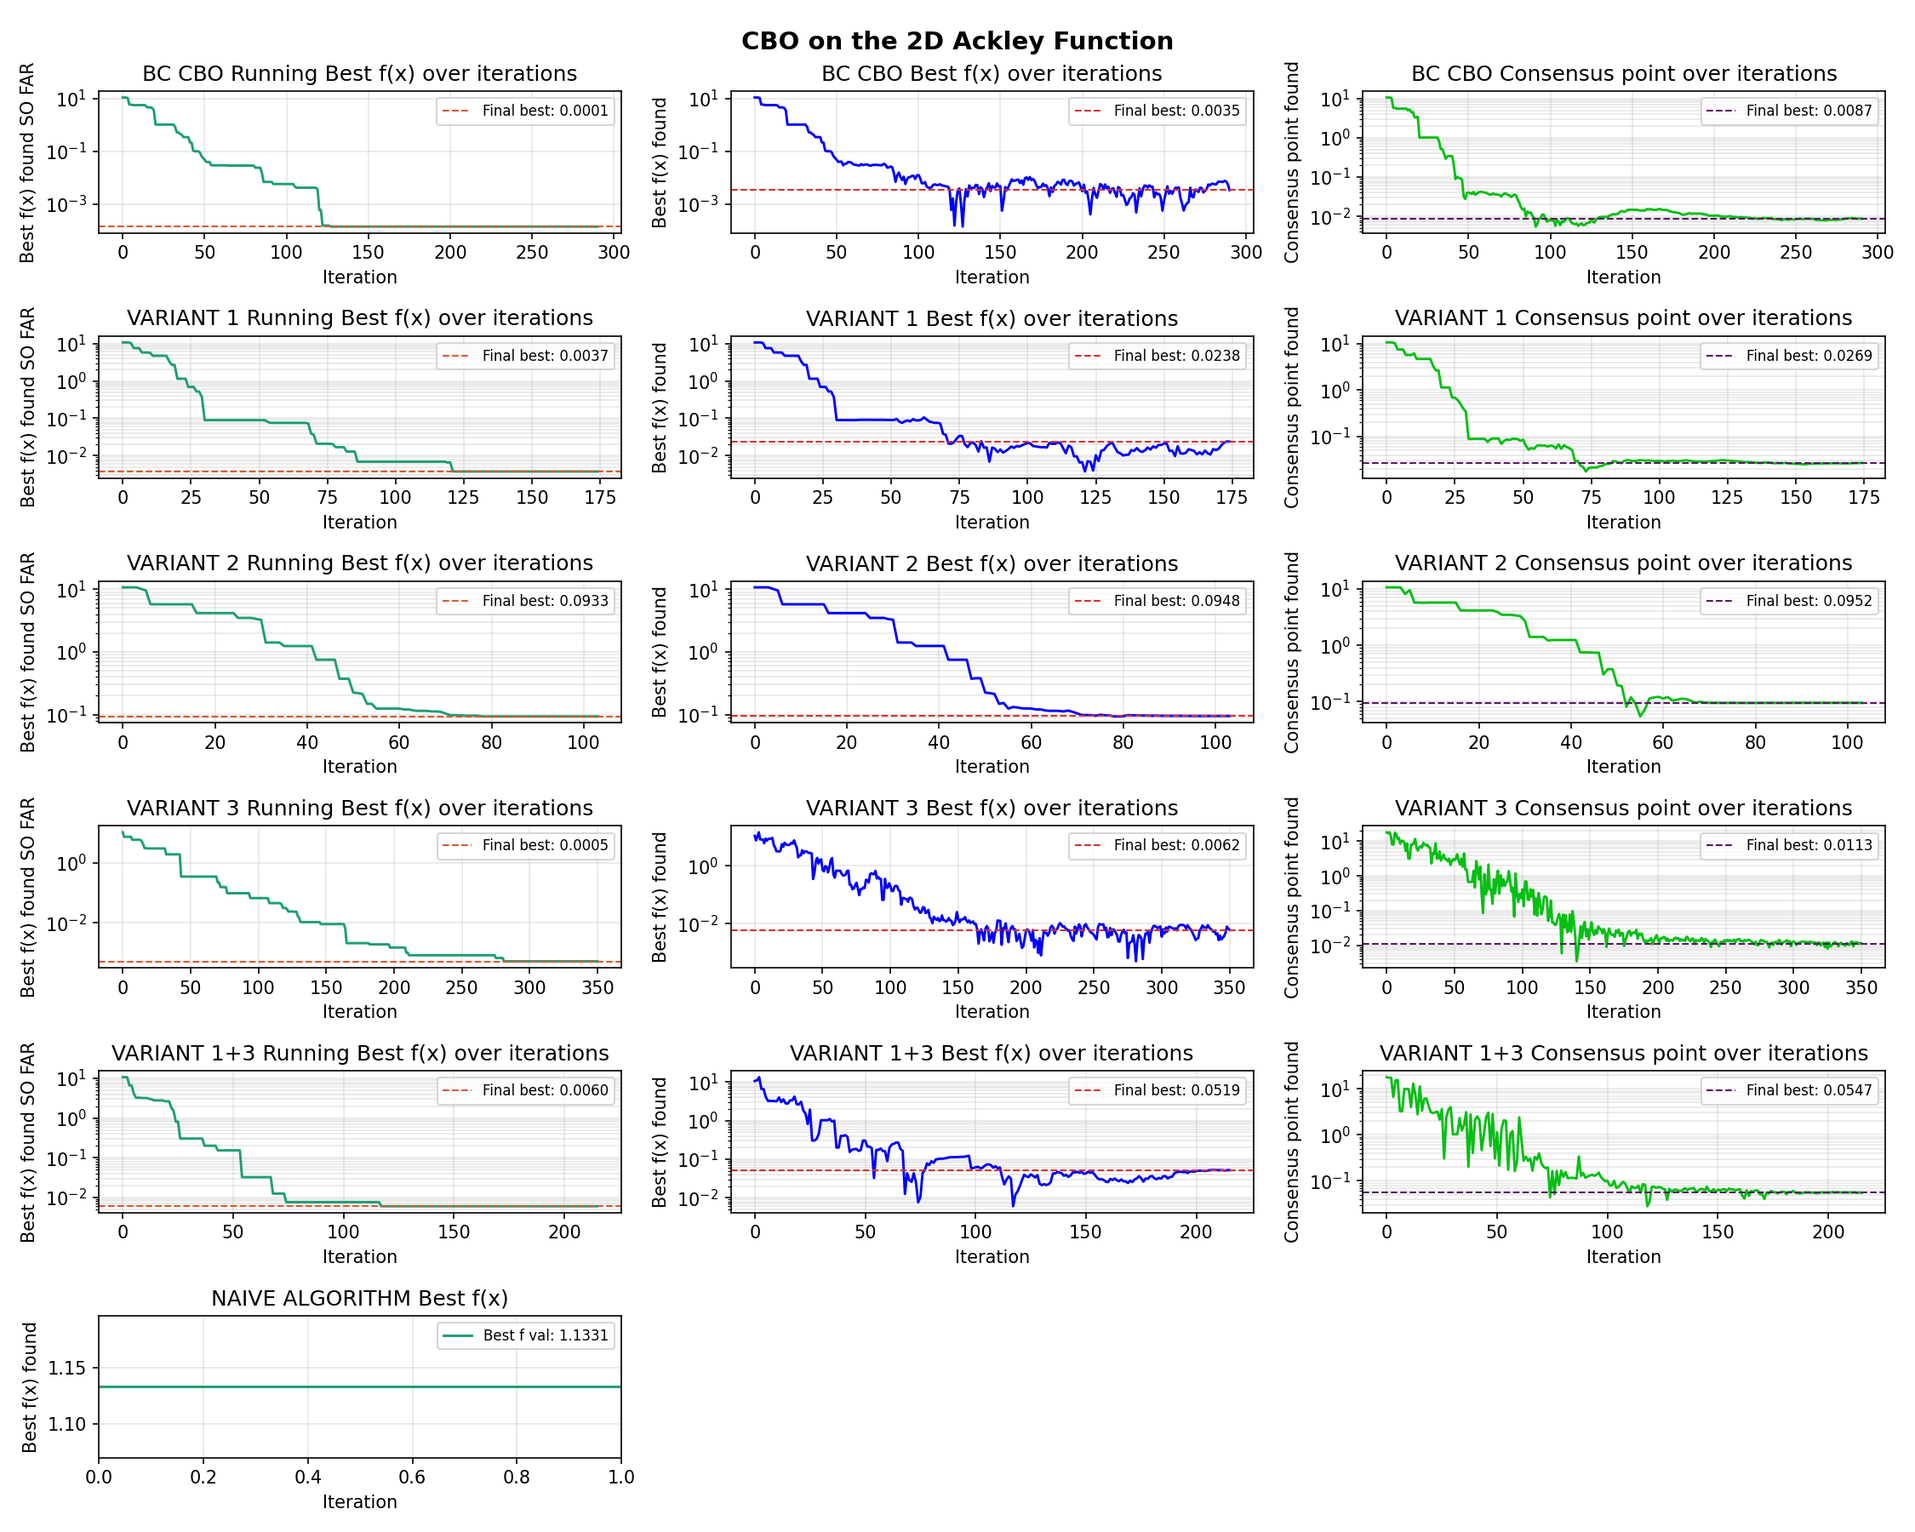
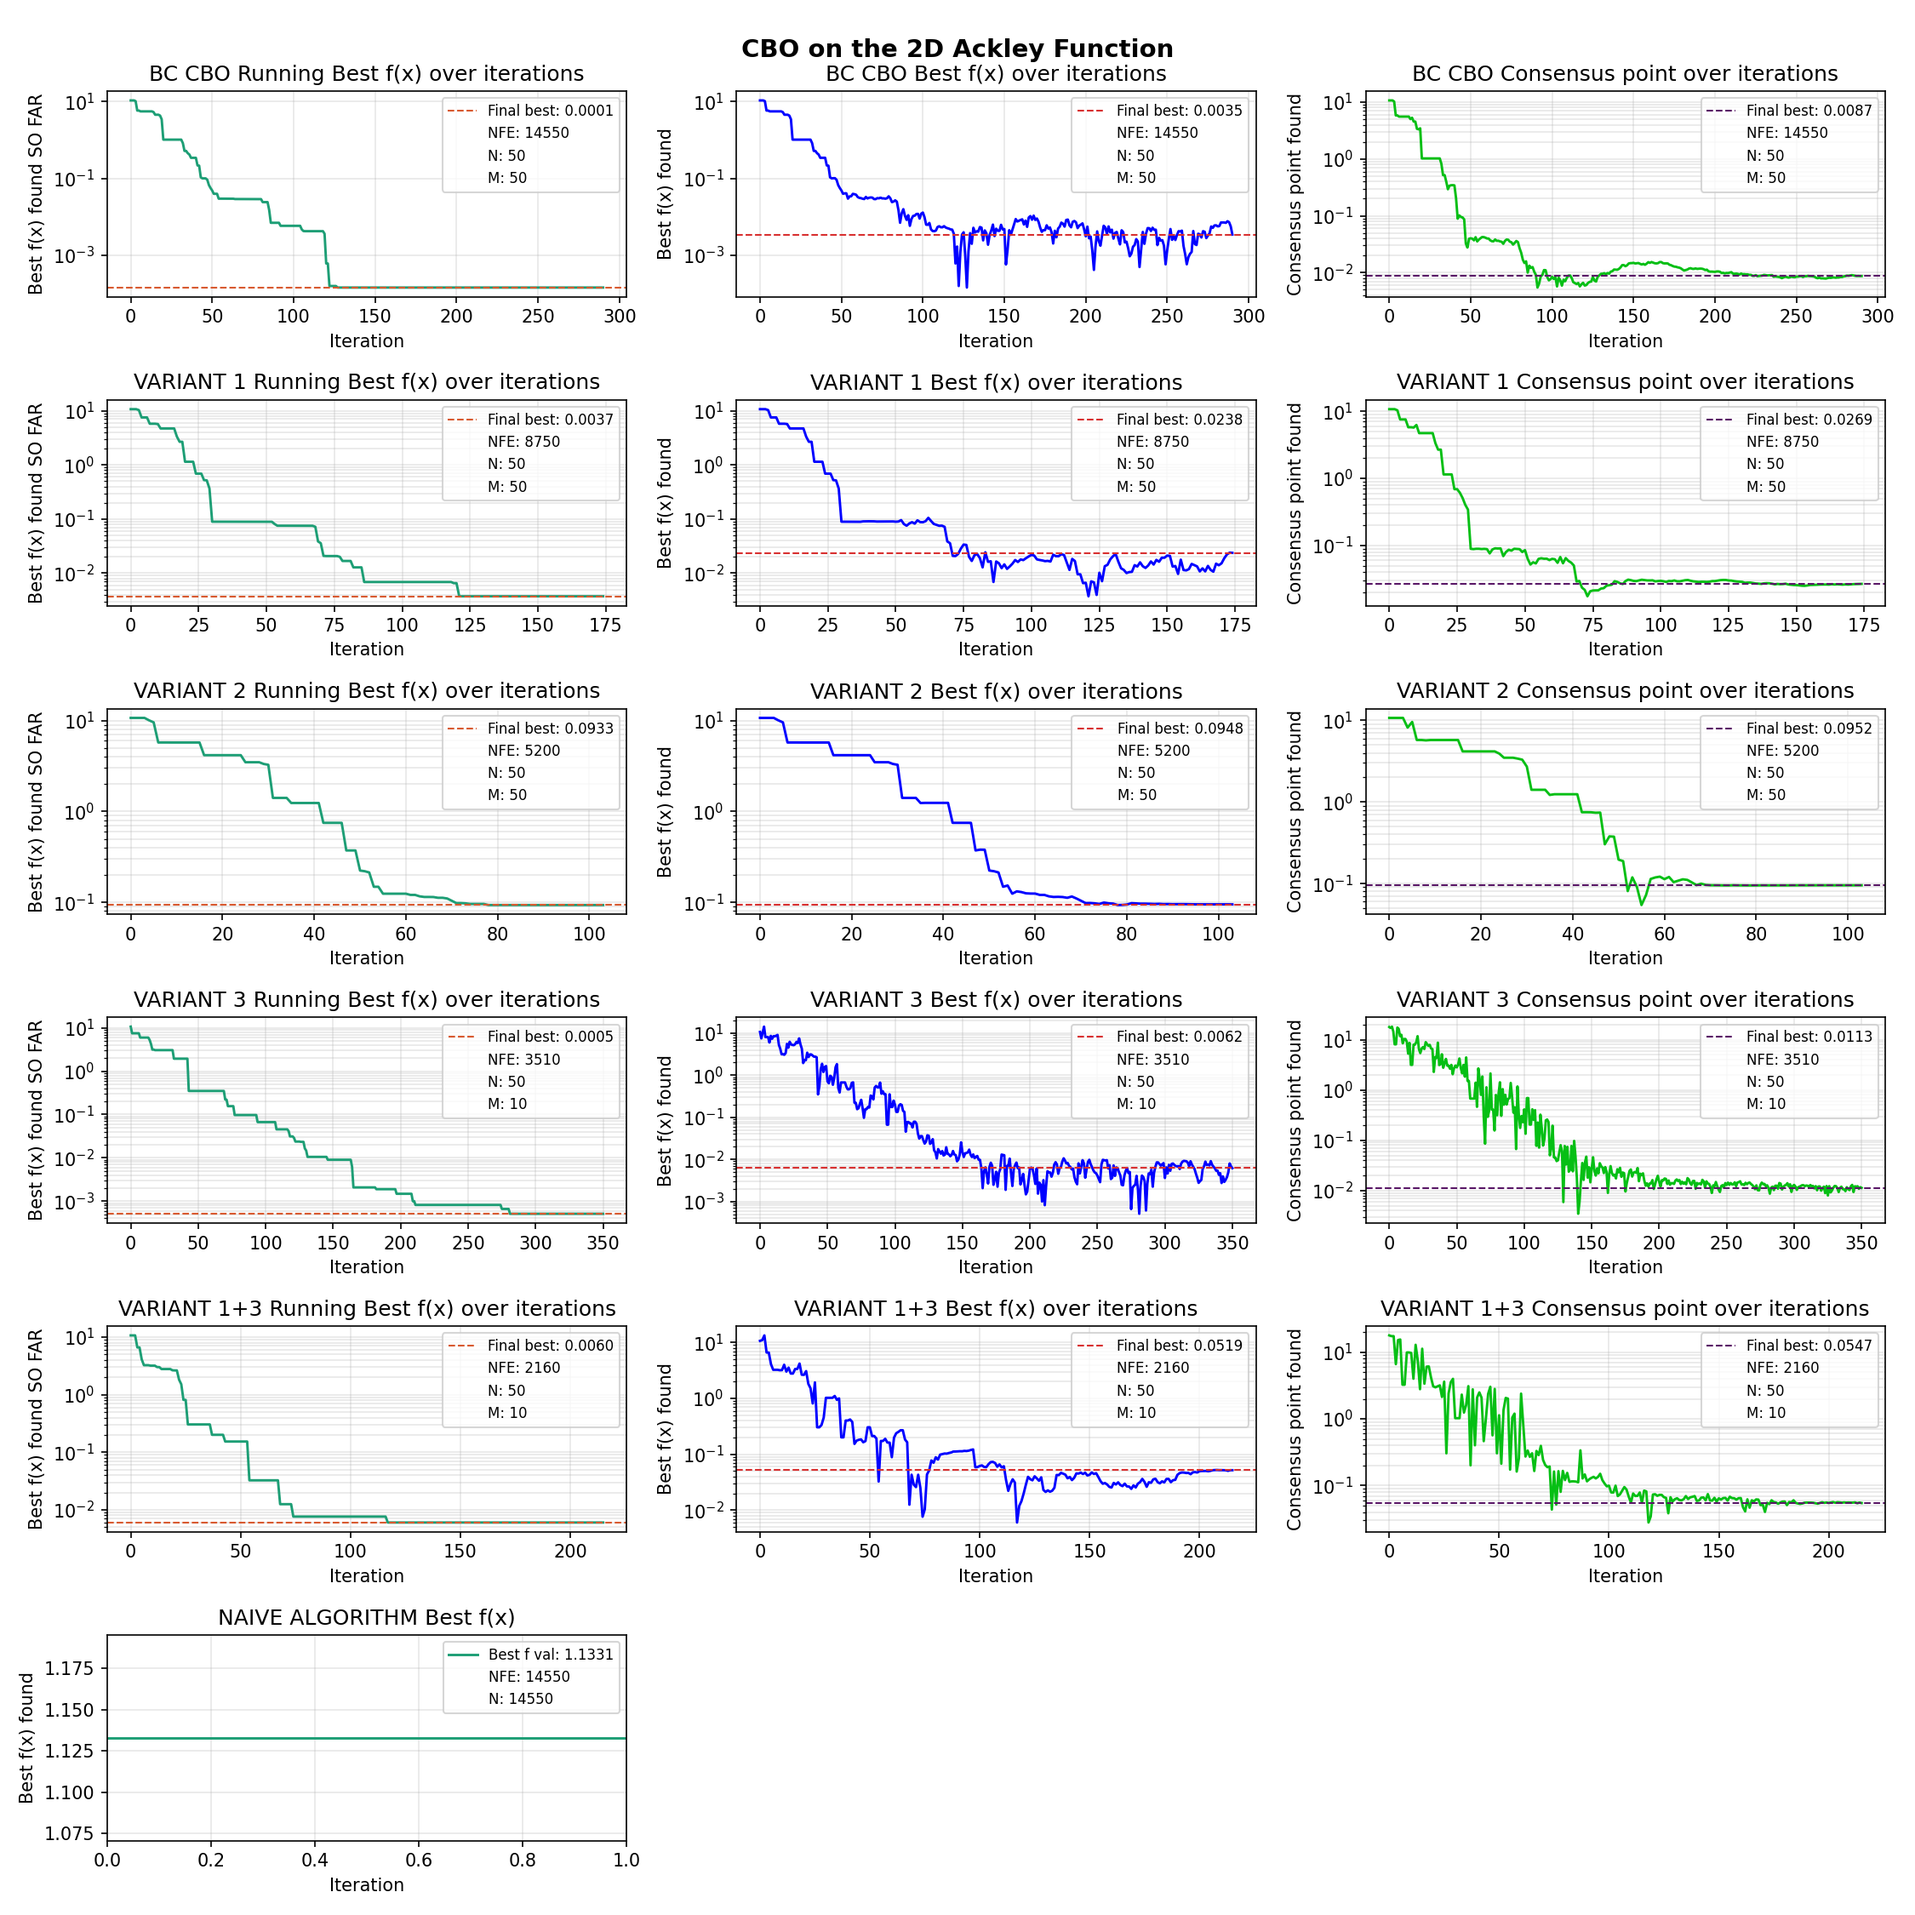
Algorithm comparison parameters

Changed region(s): [[0.0, 0.0, 0.9956, 0.9956], [0.4356, 0.2489, 0.4978, 0.28], [0.4667, 0.4044, 0.4978, 0.4356]]

diff --git a/obj_val_plot.py b/obj_val_plot.py
@@ -1,6 +1,7 @@
 import numpy as np
 import matplotlib.pyplot as plt
 import matplotlib.colors as mcolors
+import matplotlib.patches as mpatches
 
 from bc_algorithms import ackley, cbo, naive
 from variant_1 import component_wise_diff
@@ -10,7 +11,7 @@ from variant_1and3 import comp_diff_random_batch
 
 
 # best f(x) found SO FAR over iterations
-def best_obj_val_hist(ax, best_val_hist, best_val):
+def best_obj_val_hist(ax, best_val_hist, best_val, n_particles=50, m_size=50):
     # plot x (iteration) and y (obj value)
     ax.semilogy(best_val_hist, color="#1D9E75", linewidth=1.4)
     # draw horizontal y line to show where run ended up
@@ -18,22 +19,38 @@ def best_obj_val_hist(ax, best_val_hist, best_val):
 
     # ax.set_title("Best f(x) over iterations")
     ax.set_xlabel("Iteration"); ax.set_ylabel("Best f(x) found SO FAR")
-    ax.legend(fontsize=8)
+    # ax.legend(fontsize=8)
     ax.grid(alpha=0.3, which="both")
 
+    # get the existing plot handles automatically
+    handles, labels = ax.get_legend_handles_labels()
+
+    # add info patches to legend
+    info1 = mpatches.Patch(color='none', label=f'NFE: {m_size * len(best_val_hist)}')
+    info2 = mpatches.Patch(color='none', label=f'N: {n_particles}')
+    info3 = mpatches.Patch(color='none', label=f'M: {m_size}')
+    ax.legend(handles=handles + [info1, info2, info3], fontsize=8)
+
 # best f(x) during each iteration
-def obj_val_hist(ax, obj_val_hist):
+def obj_val_hist(ax, obj_val_hist, n_particles=50, m_size=50):
     # plot x (iteration) and y (obj value)
     ax.semilogy(obj_val_hist, color="blue", linewidth=1.4)
     # draw horizontal y line to show where run ended up
     ax.axhline(y=obj_val_hist[-1], color="#D83030", linestyle="--", linewidth=1, label=(f"Final best: {obj_val_hist[-1]:.4f}"))
 
     ax.set_xlabel("Iteration"); ax.set_ylabel("Best f(x) found")
-    ax.legend(fontsize=8)
+    # ax.legend(fontsize=8)
     ax.grid(alpha=0.3, which="both")
 
+    # add info patches to legend
+    handles, labels = ax.get_legend_handles_labels()
+    info1 = mpatches.Patch(color='none', label=f'NFE: {m_size*len(obj_val_hist)}')
+    info2 = mpatches.Patch(color='none', label=f'N: {n_particles}')
+    info3 = mpatches.Patch(color='none', label=f'M: {m_size}')
+    ax.legend(handles=handles + [info1, info2, info3], fontsize=8)
+
 # consensus point history over iterations
-def consensus_hist(ax, consensus_hist):
+def consensus_hist(ax, consensus_hist, n_particles=50, m_size=50):
     consensus_vals = ackley(consensus_hist)
     ax.semilogy(consensus_vals, color="#06BF15", linewidth=1.4)
     # draw horizontal y line to show where run ended up
@@ -43,19 +60,32 @@ def consensus_hist(ax, consensus_hist):
     ax.legend(fontsize=8)
     ax.grid(alpha=0.3, which="both")
 
+    # add info patches to legend
+    handles, labels = ax.get_legend_handles_labels()
+    info1 = mpatches.Patch(color='none', label=f'NFE: {m_size*len(consensus_hist)}')
+    info2 = mpatches.Patch(color='none', label=f'N: {n_particles}')
+    info3 = mpatches.Patch(color='none', label=f'M: {m_size}')
+    ax.legend(handles=handles + [info1, info2, info3], fontsize=8)
+
 def obj_val_naive(ax):
     best_x, best_val, x_positions, f_vals, n_particles, variance = naive(ackley, d=2)
     # draw horizontal line to compare best_val to other graphs
     ax.axhline(y=best_val, color="#1D9E75", linestyle="-", linewidth=1.4, label=(f"Best f val: {best_val:.4f}"))
     ax.set_title("NAIVE ALGORITHM Best f(x)")
     ax.set_xlabel("Iteration"); ax.set_ylabel("Best f(x) found")
-    ax.legend(fontsize=8)
+    # ax.legend(fontsize=8)
     ax.grid(alpha=0.3, which="both")
+
+    # add info patches to legend
+    handles, labels = ax.get_legend_handles_labels()
+    info1 = mpatches.Patch(color='none', label=f'NFE: {n_particles}')
+    info2 = mpatches.Patch(color='none', label=f'N: {n_particles}')
+    ax.legend(handles=handles + [info1, info2], fontsize=8)
 
 
 def main():
     # create blank canvas
-    fig = plt.figure(figsize=(15,12))
+    fig = plt.figure(figsize=(15,15))
     fig.suptitle("CBO on the 2D Ackley Function", fontsize=14, fontweight="bold")
 
     # 2x2 figure panels
@@ -91,9 +121,9 @@ def main():
     ax4.set_title("VARIANT 1 Running Best f(x) over iterations")
     best_obj_val_hist(ax7, var2_best_val_hist, var2_best_val)
     ax7.set_title("VARIANT 2 Running Best f(x) over iterations")
-    best_obj_val_hist(ax10, var3_best_val_hist, var3_best_val)
+    best_obj_val_hist(ax10, var3_best_val_hist, var3_best_val, m_size=10)
     ax10.set_title("VARIANT 3 Running Best f(x) over iterations")
-    best_obj_val_hist(ax13, var13_best_val_hist, var13_best_val)
+    best_obj_val_hist(ax13, var13_best_val_hist, var13_best_val, m_size=10)
     ax13.set_title("VARIANT 1+3 Running Best f(x) over iterations")
     obj_val_naive(ax16)
 
@@ -104,9 +134,9 @@ def main():
     ax5.set_title("VARIANT 1 Best f(x) over iterations")
     obj_val_hist(ax8, var2_obj_val_hist)
     ax8.set_title("VARIANT 2 Best f(x) over iterations")
-    obj_val_hist(ax11, var3_obj_val_hist)
+    obj_val_hist(ax11, var3_obj_val_hist, m_size=10)
     ax11.set_title("VARIANT 3 Best f(x) over iterations")
-    obj_val_hist(ax14, var13_obj_val_hist)
+    obj_val_hist(ax14, var13_obj_val_hist, m_size=10)
     ax14.set_title("VARIANT 1+3 Best f(x) over iterations")
 
     # consensus point history
@@ -116,9 +146,9 @@ def main():
     ax6.set_title("VARIANT 1 Consensus point over iterations")
     consensus_hist(ax9, var2_consensus_hist)
     ax9.set_title("VARIANT 2 Consensus point over iterations")
-    consensus_hist(ax12, var3_consensus_hist)
+    consensus_hist(ax12, var3_consensus_hist, m_size=10)
     ax12.set_title("VARIANT 3 Consensus point over iterations")
-    consensus_hist(ax15, var13_consensus_hist)
+    consensus_hist(ax15, var13_consensus_hist, m_size=10)
     ax15.set_title("VARIANT 1+3 Consensus point over iterations")
 
 
